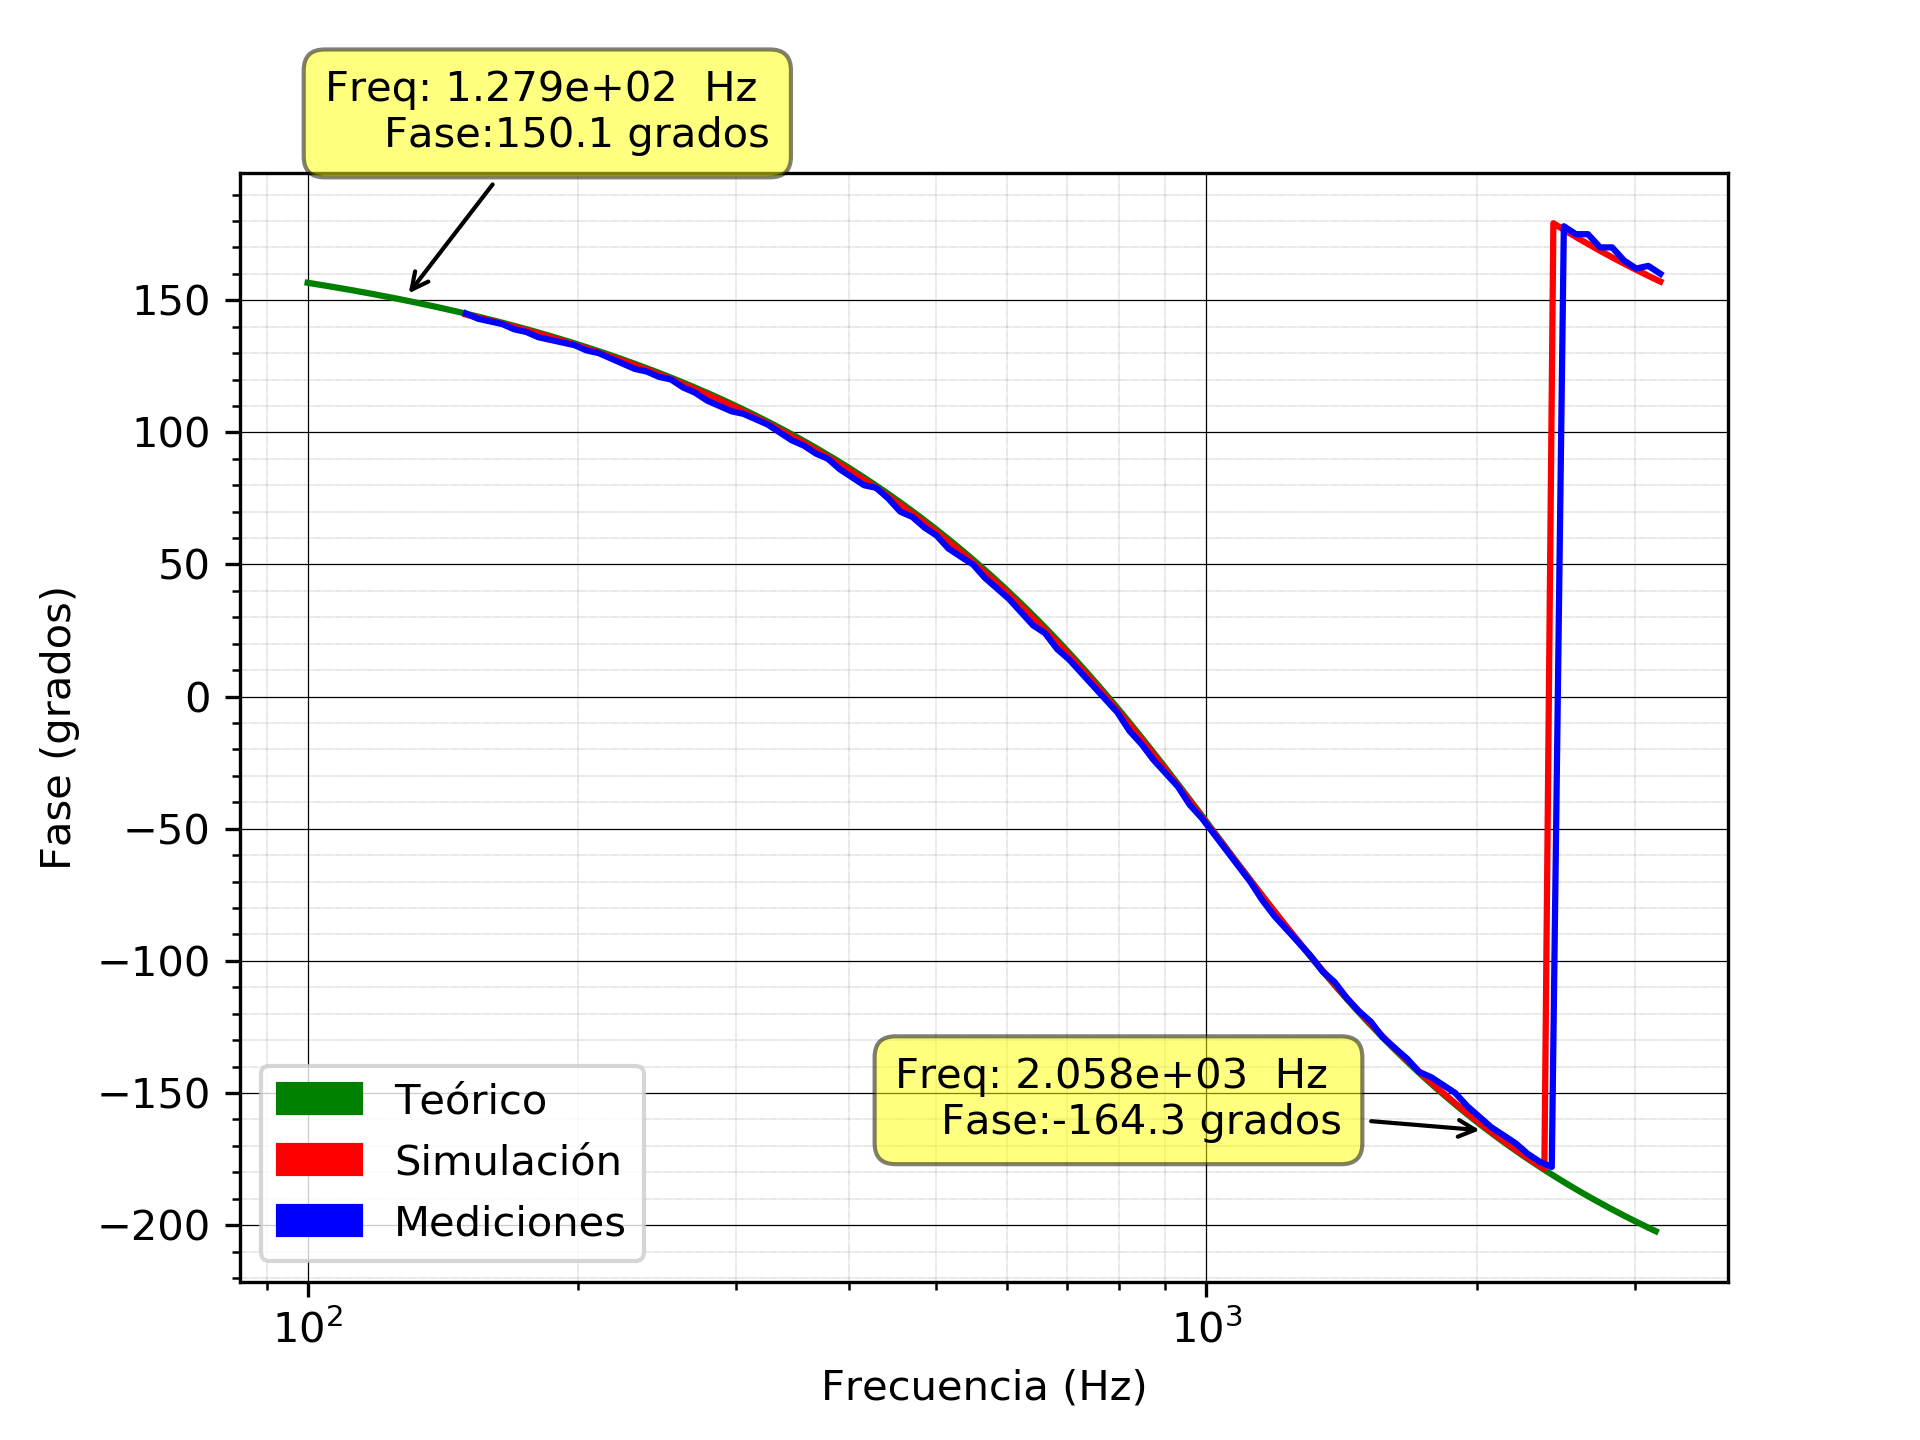
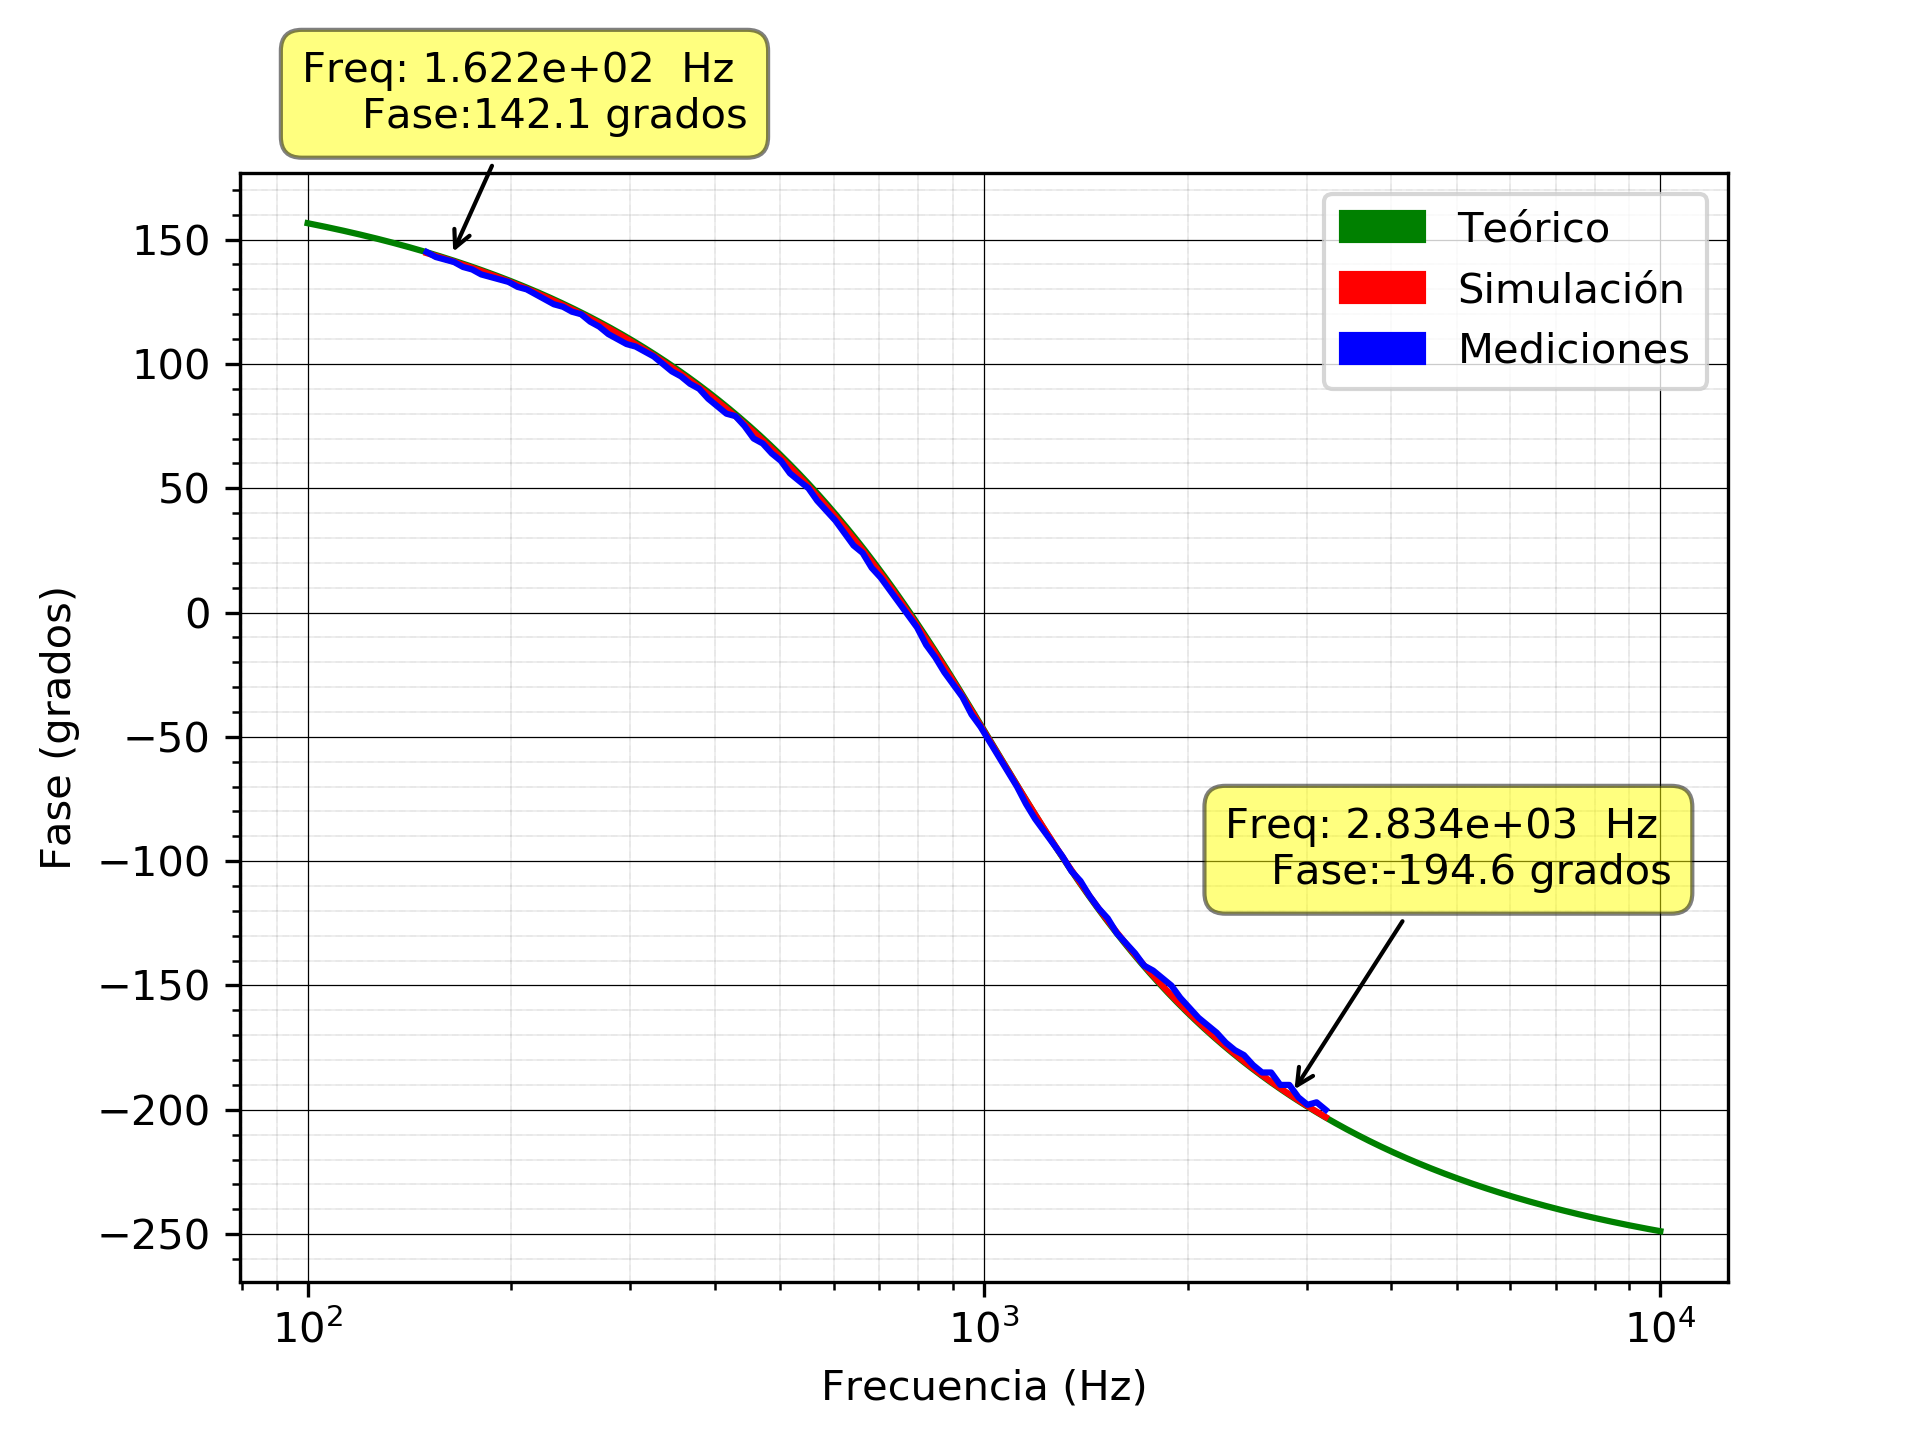
arreglando fase

diff --git a/TP5/graficos_express/main.py b/TP5/graficos_express/main.py
@@ -13,7 +13,7 @@ import read_xls
 import transfer
 import transfer_legendre
 
-f_range = np.logspace(4, 4.8
+f_range = np.logspace(2, 4
                       , 10000)
 w_range = [2 * pi * i for i in f_range]
 
@@ -52,9 +52,9 @@ def plot_mediciones(path, mode, mediciones_filename, spice_filename, output_file
                 ax1.semilogx(data_spice["f"], data_spice["abs"], "red")
         else:
             for i in range(len(data_spice["pha"])):
-                #if data_spice["pha"][i] > 0:
-            #         data_spice["pha"][i] -= 360.0
-                data_spice["pha"][i] -= 180
+                if data_spice["pha"][i] > 150:
+                    data_spice["pha"][i] -= 360.0
+            #    data_spice["pha"][i] -= 180
                 # pass
             ax1.semilogx(data_spice["f"], data_spice["pha"], "red")
 
@@ -76,8 +76,9 @@ def plot_mediciones(path, mode, mediciones_filename, spice_filename, output_file
                 #     data_mediciones["ZIN PHA COPY"][i] = data_mediciones["ZIN PHA COPY"][i] - 180
                 ax1.semilogx(data_mediciones["Freq"], data_mediciones["ZIN PHA COPY"], "blue")
             else:
-                # for i in range(len( data_mediciones["Pha"])):
-                #     data_mediciones["Pha"][i] -= 180
+                for i in range(len( data_mediciones["Pha"])):
+                    if data_mediciones["Pha"][i] > 150:
+                        data_mediciones["Pha"][i] -= 360
                 ax1.semilogx(data_mediciones["Freq"], data_mediciones["Pha"], "blue")
 
         patches.append(mpatches.Patch(color="blue", label="Mediciones"))
@@ -113,13 +114,13 @@ plantilla_points = [
 #                 my_tf=transfer.bH,
 #                 plantillaPoints=plantilla_points)
 
-# plot_mediciones(path="EJ1/Circuito con Bessel/",
-#                 mode="pha",
-#                 mediciones_filename="Bode.xlsx",
-#                 spice_filename="Bode.txt",
-#                 output_filename="EJ1_pha_bessel.png",
-#                 my_tf=transfer.bH
-# )
+plot_mediciones(path="EJ1/Circuito con Bessel/",
+                mode="pha",
+                mediciones_filename="Bode.xlsx",
+                spice_filename="Bode.txt",
+                output_filename="EJ1_pha_bessel.png",
+                my_tf=transfer.bH
+)
 # plot_mediciones(path="EJ1/Circuito con Bessel/",
 #                 mode="mag",
 #                 mediciones_filename="Zin.xlsx",
@@ -144,7 +145,7 @@ plantilla_points = [
 #                 output_filename="EJ1_mag_legendre.png",
 #                 my_tf=transfer_legendre.H,
 #                 plantillaPoints=plantilla_points)
-
+#
 # plot_mediciones(path="EJ1/Circuito con Legendre/",
 #                 mode="pha",
 #                 mediciones_filename="Bode.xlsx",
@@ -161,10 +162,10 @@ plantilla_points = [
 #                 my_tf=transfer.bZin,
 #                 zin=True)
 
-plot_mediciones(path="EJ1/Circuito con Legendre/",
-                mode="pha",
-                mediciones_filename="Zin.xlsx",
-                spice_filename="Zin.txt",
-                output_filename="Zin_pha_lengendre.png",
-                my_tf=transfer.bZin,
-                zin=True)
+# plot_mediciones(path="EJ1/Circuito con Legendre/",
+#                 mode="pha",
+#                 mediciones_filename="Zin.xlsx",
+#                 spice_filename="Zin.txt",
+#                 output_filename="Zin_pha_lengendre.png",
+#                 my_tf=transfer.bZin,
+#                zin=True)
